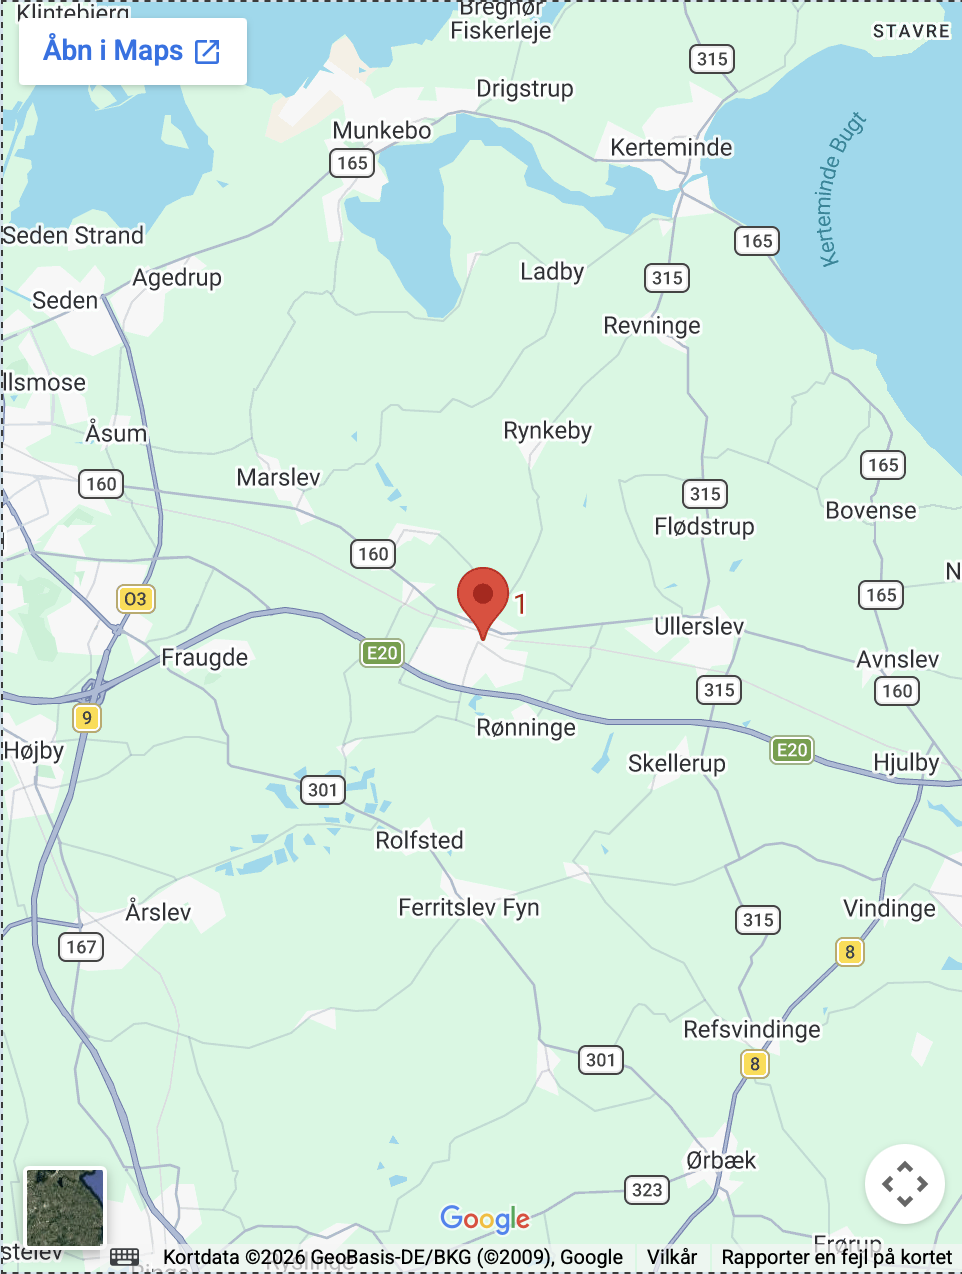
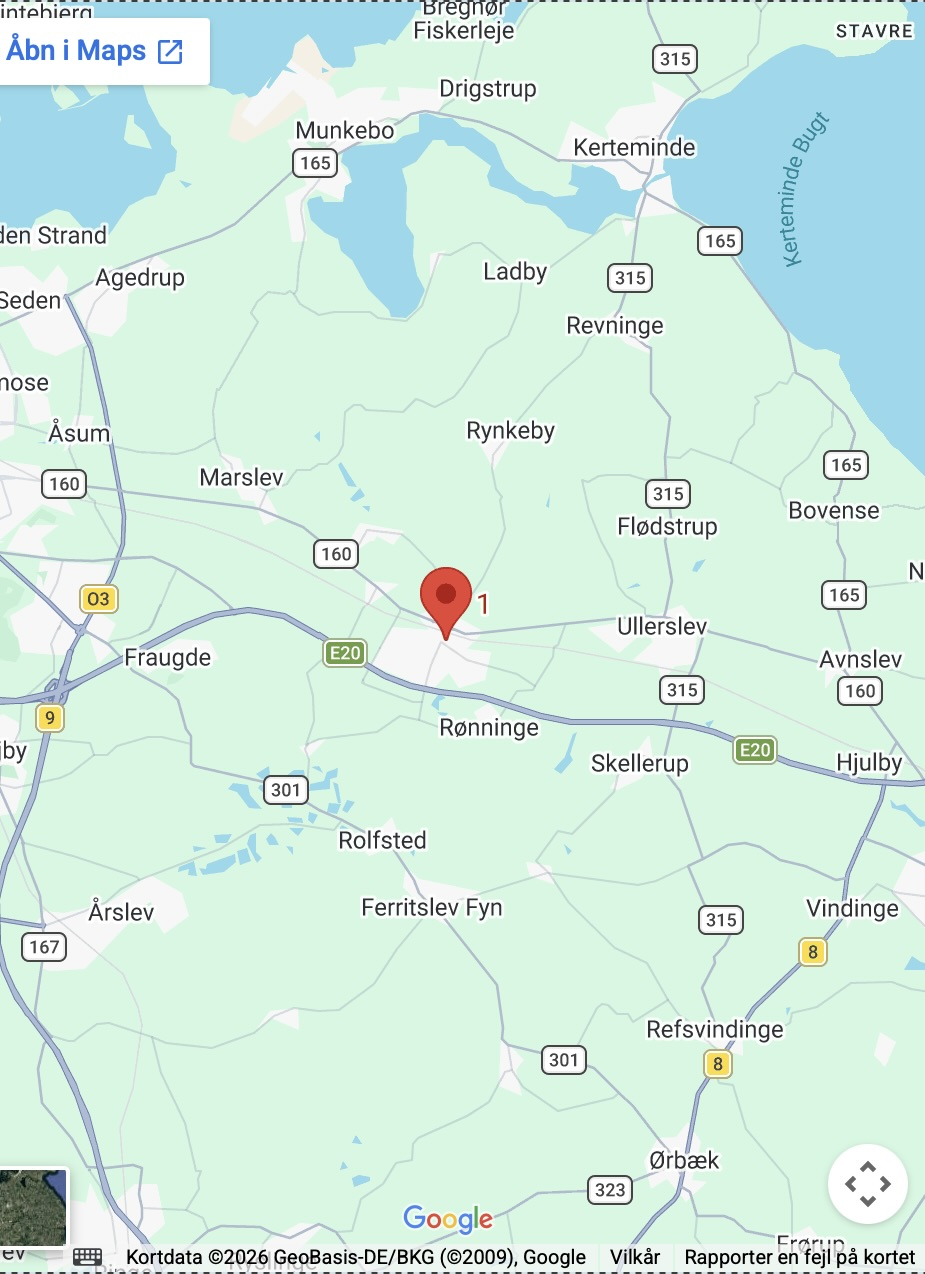
yay

diff --git a/index.html b/index.html
@@ -83,24 +83,22 @@
     </header>
 
 <section class="topbanner-section">
-  <!-- Baggrund -->
   <div class="banner-background">
     <img src="img_lager/DSC_5186v2.webp" alt="Fysioterapi behandling" />
     <div class="banner-overlay"></div>
   </div>
 
-  <!-- ✅ Samme container som resten af sitet -->
   <div class="container banner-container">
 
     <!-- Hero content -->
     <div class="banner-content">
-      <h1>Fysioterapi i Langeskov med høj faglighed</h1>
+      <h1>Fysioterapi med fokus på dig</h1>
+      <h3>Personlig behandling, der hjælper dig til en stærkere og mere smertefri hverdag</h3>
       
       <p class="banner-description">
-        Hos Grocott Fys hjælper vi dig med at bevæge dig bedre, stærkere og uden smerter.
-        Hos os får du en individuel behandling baseret på din krop og dine behov.
-        Vi kombinerer faglig ekspertise med personlig rådgivning – så du hurtigt kan 
-        komme tilbage til det, der betyder mest for dig.
+        Hos Grocott Fysioterapi får du en grundig og individuelt tilpasset behandling, hvor vi tager os tid til at forstå dine udfordringer og finde årsagen til dine smerter.
+        Du får klare forklaringer, konkrete løsninger og et behandlingsforløb, der er tilpasset dig og din hverdag.
+
       </p>
 
       <div class="banner-buttons">
@@ -141,11 +139,16 @@
    <section class="section">
     <div class="container">
         <div class="content-wrapper">
-            <h2>Målrettet fysioterapi - der gør en forskel</h2>
-            <h3>Tag det første skridt mod en stærkere og smertefri hverdag</h3>
-            <p>Få målrettet fysioterapi tilpasset netop dine smerter og udfordringer. Her finder du et udvalg af behandlinger, der styrker din krop, lindrer smerter og hjælper dig tilbage til en velfungerende hverdag.</p>
-            <p>Jeg arbejder individuelt og målrettet med fokus på dine behov og mål.</p>
-            <a href="booking.html" class="btn">Book tid</a>
+            <h2>Målrettet fysioterapi, der skaber holdbare resultater</h2>
+            <h3>Find den behandling, der passer til dine smerter og udfordringer</h3>
+            <p>Uanset om du har smerter i ryg, nakke, skulder eller knæ, tager behandlingen udgangspunkt i dine behov og mål.</p>
+            <p>Mit fokus er ikke kun at lindre dine smerter, men at hjælpe dig med at forstå årsagen og give dig konkrete værktøjer, der skaber forbedringer der varer ved.</p>
+            
+<div class="btn-group">
+    <a href="booking.html" class="btn">Book tid</a>
+    <a href="booking.html" class="btn-second">Se alle behandlinger</a>
+</div>
+
         </div>
 
         <div class="card-grid">
@@ -192,9 +195,10 @@
         <div class="container">
             <div class="about-content">
                 <h2>Hvorfor vælge Grocott Fysioterapi?</h2>
-                <h3>Helhedsorienteret behandling</h3>
+                <h3>Grundig behandling med fokus på årsagen til dine smerter</h3>
                 <p>
-                    Jeg ser kroppen som en sammenhængende helhed. Oplever du fx smerter i knæet, undersøger jeg ikke kun knæet, men også de bagvedliggende årsager – som fx funktion i fødderne. Gennem grundige tests og observationer finder jeg kernen i problemet. Mit mål er ikke kun at lindre dine smerter her og nu, men at skabe holdbare resultater på lang sigt.
+                   Jeg arbejder ud fra en helhedsorienteret tilgang, hvor vi ser på kroppen som en sammenhængende helhed. Det betyder, at vi ikke kun behandler det område, hvor du har ondt, men også undersøger de faktorer, der kan være med til at skabe problemet. Målet er at finde den løsning, der giver dig de bedste og mest holdbare resultater.
+
                 </p>
                 <br>
                 <h3>Færre konsultationer – bedre resultater</h3>
@@ -202,8 +206,9 @@
                     Med fokus på faglighed, dialog og tryghed hjælper jeg dig med at komme videre, uanset om dine smerter er nye eller har stået på længe.
                 </p>
                 <p>
-                    Tid er ofte en begrænset ressource i sundhedssystemet, hvilket kan gå ud over kvaliteten. Derfor arbejder jeg uden for overenskomst, så jeg kan afsætte den nødvendige tid til netop din problematik. <br><br>
-                    Mere tid og høj faglighed giver bedre og mere holdbare resultater. Det betyder færre konsultationer, større selvstændighed og en løsning, der virker – både på kort og lang sigt.
+                    Hos Grocott Fysioterapi er der tid til at gå i dybden og skabe et behandlingsforløb, der er tilpasset dig. Ikke alle kan behandles på en time, derfor bliver der afsat god tid til lige præcis dine behov.
+                    Når behandlingen kombinerer høj faglighed, tydelige forklaringer og konkrete øvelser, opnår de fleste gode resultater på færre konsultationer.
+
                 </p>
                 <button class="btn-second">Læs mere</button>
             </div>
@@ -217,8 +222,8 @@
                 <div class="flow-media"></div>
 
                 <div class="flow-text">
-                    <h2>Praktisk information om behandling og tilskud</h2>
-                    <h3>Få overblik over tilskud, booking, behandlingstid og akuttider hos Grocott Fysioterapi.</h3>
+                    <h2>Praktisk information om <br>behandling og tilskud</h2>
+                    <h3>Få overblik over booking, tilskud og behandlingstid og akuttider hos Grocott Fysioterapi.</h3>
 
                     <div class="flow-cards">
                         <div class="flow-box">
@@ -226,19 +231,23 @@
                                 <span class="dot-icon"></span>
                                 Tilskud og behandling
                             </h4>
-                            <p>Grocott Fysioterapi arbejder udenfor overenskomst, så du ikke får offentligt tilskud og ikke behøver lægehenvisning. Til gengæld kan du få tilskud gennem de fleste sundhedsforsikringer og sygeforsikring “danmark”.</p>
+                            <p>Klinikken arbejder uden for overenskomst, hvilket betyder, at der ikke gives tilskud fra den offentlige sygesikring. </p> <p>Til gengæld kan du i de fleste tilfælde få tilskud gennem din sundhedsforsikring eller som medlem af Sygeforsikringen 'danmark'.</p>
                             <button class="btn-second">Læs mere</button>
                         </div>
+
+                        
 
                         <div class="flow-box">
                             <h4 class="flow-title-row">
                                 <span class="dot-icon"></span>
                                 Behandlingstid
                             </h4>
-                            <p>Varigheden af din behandling tilpasses individuelt og aftales ved første samtale i forbindelse med booking. Opfølgende behandlinger planlægges ud fra:</p>
+                            <p>Hvor lang tid der skal afsættes til din første behandling, afhænger af dine symptomer og den problemstilling, du ønsker hjælp til. Derfor aftaler vi den mest passende konsultationstid allerede ved den første samtale, når du booker din tid.
+                            Varigheden af eventuelle opfølgende behandlinger tilpasses løbende og vurderes ud fra:</p>
                             <p><span class="dot-iconxs"></span> Dit fremskridt</p>
                             <p><span class="dot-iconxs"></span> Omfanget af dine gener</p>
                             <p><span class="dot-iconxs"></span> Planen for det videre forløb</p>
+                            <p>På den måde sikrer vi, at du får den behandling og den tid, der passer bedst til dine behov.</p>
                         </div>
 
                         <div class="flow-box flow-box-wide">
@@ -246,7 +255,9 @@
                                 <span class="emergency dot-icon"></span>
                                 Akut tider
                             </h4>
-                            <p>Jeg tilbyder akuttider i ydertidspunkter og weekender, til pludselig opståede smerter og skader, hvor du ønsker en ”hurtig” vurdering og behandling med henblik smertelindring og fx genoprettelse av mobilitet. Jeg vil altid foretage en vurdering når tiden bestilles, hvorvidt om det er en problematik, hvor en akuttid er relevant eller om det kræver en anden sundhedsfaglig vurdering og undersøgelse.</p>
+                            <p>Ved pludseligt opståede smerter eller skader tilbyder jeg akuttider i ydertimer og i weekender, så du hurtigt kan få en vurdering og behandling med fokus på smertelindring og genoprettelse af bevægelighed.
+                            Når du kontakter mig, foretager jeg altid en faglig vurdering af, om en akuttid er den rette løsning, eller om dine symptomer kræver en anden sundhedsfaglig undersøgelse.</p>
+                            <p>Ved akuttider opkræves et akut tillæg ud over den normale behandlingspris. Du vil altid blive informeret om dette i forbindelse med booking.</p>
                         </div>
                     </div>
                 </div>
@@ -314,14 +325,15 @@
     <section class="section behandler">
         <div class="container">
             <div class="boks">
-                <h2>Om Grocott Fysioterapi</h2>
-                <h3>Personlig behandling med fokus på resultater, der holder.</h3>
-                <p>Hos Grocott Fysioterapi er det mig, Nicolai, du møder hver gang. Jeg arbejder med en personlig tilgang, hvor der er tid til at forstå dine udfordringer i dybden og finde den rigtige løsning til dig – ikke bare en standardbehandling.</p>
-                <p>Med fokus på faglighed, dialog og tryghed hjælper jeg dig med at komme videre, uanset om dine smerter er nye eller har stået på længe.</p>
-                <p><span class="dot-iconxs"></span>Flere års erfaring og høj faglighed</p>
-                <p><span class="dot-iconxs"></span> Personlig og individuel behandling</p>
-                <p><span class="dot-iconxs"></span>Speciale i bl.a. nakke, skulder, hovedpine og sportsskader</p>
-                <p><span class="dot-iconxs"></span> Behandling med tid, nærvær og kvalitet</p>
+                <h2>Personlig fysioterapi med fokus på resultater der holder</h2>
+                <h3>Du møder den samme behandler hver gang</h3>
+                <p>Hos Grocott Fysioterapi er det mig, Nicolai, du møder hver gang. Med over 11 års erfaring som fysioterapeut, 19 kurser og videreuddannelser samt 2,5 års studier i idræt og sundhed tilbyder jeg en grundig og individuelt tilpasset behandling.</p>
+                <p>Jeg kombinerer høj faglighed med en personlig tilgang, hvor du får klare forklaringer, konkrete løsninger og et behandlingsforløb, der tager udgangspunkt i hele kroppen og dine specifikke behov.</p>
+                <p><span class="dot-iconxs"></span>11+ års erfaring som fysioterapeut</p>
+                <p><span class="dot-iconxs"></span> 19 kurser og videreuddannelser</p>
+                <p><span class="dot-iconxs"></span>2,5 års studier i idræt og sundhed</p>
+                <p><span class="dot-iconxs"></span> Speciale i nakke, skulder, hovedpine og sportsskader</p>
+                <p><span class="dot-iconxs"></span> Personlig behandling med tid, nærvær og kvalitet</p>
                 <button class="btn-second"> Læs mere om Grocott</button>
             </div>
             <div class="boks-billede"></div>
@@ -376,7 +388,7 @@
             <div class="booking-wrapper">
                 <div class="booking-text">
                     <h2>Bestil tid hos Grocott Fysioterapi</h2>
-                    <h3>Book en tid og lad os sammen finde den bedste løsning for dig</h3>
+                    <h3>Book en tid og lad os sammen finde <br>den bedste løsning for dig</h3>
                     <p>Den første kontakt vil typisk foregå pr. telefon, hvor jeg kort vil høre ind til udfordringerne, så vi allerede inden første konsultation har sat den rigtige tid af.</p>
                     <p>Her kan jeg også give dig et billede af hvordan jeg arbejder som behandler.</p>
                     <div class="booking-info">

diff --git a/booking.html b/booking.html
@@ -86,11 +86,12 @@
     <section class="section hero-booking">
         <div class="container">
             <div class="hero-text-booking">
-                <h1>Book tid</h1>
-                <h2>Book din tid nemt og hurtigt hos Grocott Fysioterapi.</h2>
-                <p>
-                    Her tager vi udgangspunkt i dine behov, så du får den rette behandling fra start.
-                </p>
+                <h1>Book tid hos Grocott Fysioterapi</h1>
+                <h3>Lad os sammen finde den bedste løsning for dig</h3>
+                
+                <p>Hos Grocott Fysioterapi tager vi udgangspunkt i dig og dine behov. </p>
+                <p> Sammen finder vi frem til den rette behandling, så du hurtigt kan komme videre med færre smerter og bedre bevægelse i hverdagen.</p>
+
             </div>
             <div class="hero-image-booking"></div>
         </div>

diff --git a/css/home.css b/css/home.css
@@ -74,7 +74,7 @@
   grid-template-columns: 1fr;
   gap: var(--space-m);
   width: 100%;
-  margin-top: var(--space-m); /* ✅ FIX (ikke auto) */
+ 
 }
 
 /* Cards */
@@ -104,6 +104,13 @@
     text-align: left;
     gap: var(--space-l);
 }
+
+.btn-group {
+    display: flex;
+    gap: var(--space-s);
+    flex-wrap: wrap; /* vigtigt på mobil */
+}
+
 
 /* Gør dit grid responsivt, så det automatisk laver flere kolonner på større skærme */
 .card-grid {
@@ -428,7 +435,7 @@ margin-top: var(--space-s);
 
 
     /* card */
-    .content-wrapper .btn {
+    .content-wrapper .btn-group {
         margin-bottom: var(--space-m);
     }
 

diff --git a/css/booking.css b/css/booking.css
@@ -10,7 +10,7 @@
     width: 100%;
     height: 300px;
     border-radius: 9px;
-    background: url("../img_lager/DSC_5410.webp") center 20%/cover no-repeat;
+    background: url("../img_lager/krop.webp") center /cover no-repeat;
 }
 
 .hero-text-booking {
@@ -179,7 +179,7 @@
     grid-template-columns: 2fr 1fr;
     
     column-gap: var(--space-2xl); /* mellem tekst og card ✅ */
-    row-gap: var(--space-m);      /* mellem øverste og nederste ✅ */
+    row-gap: var(--space-3xl);      /* mellem øverste og nederste ✅ */
 }
 
     /* 🔥 NEDERSTE CARDS */
